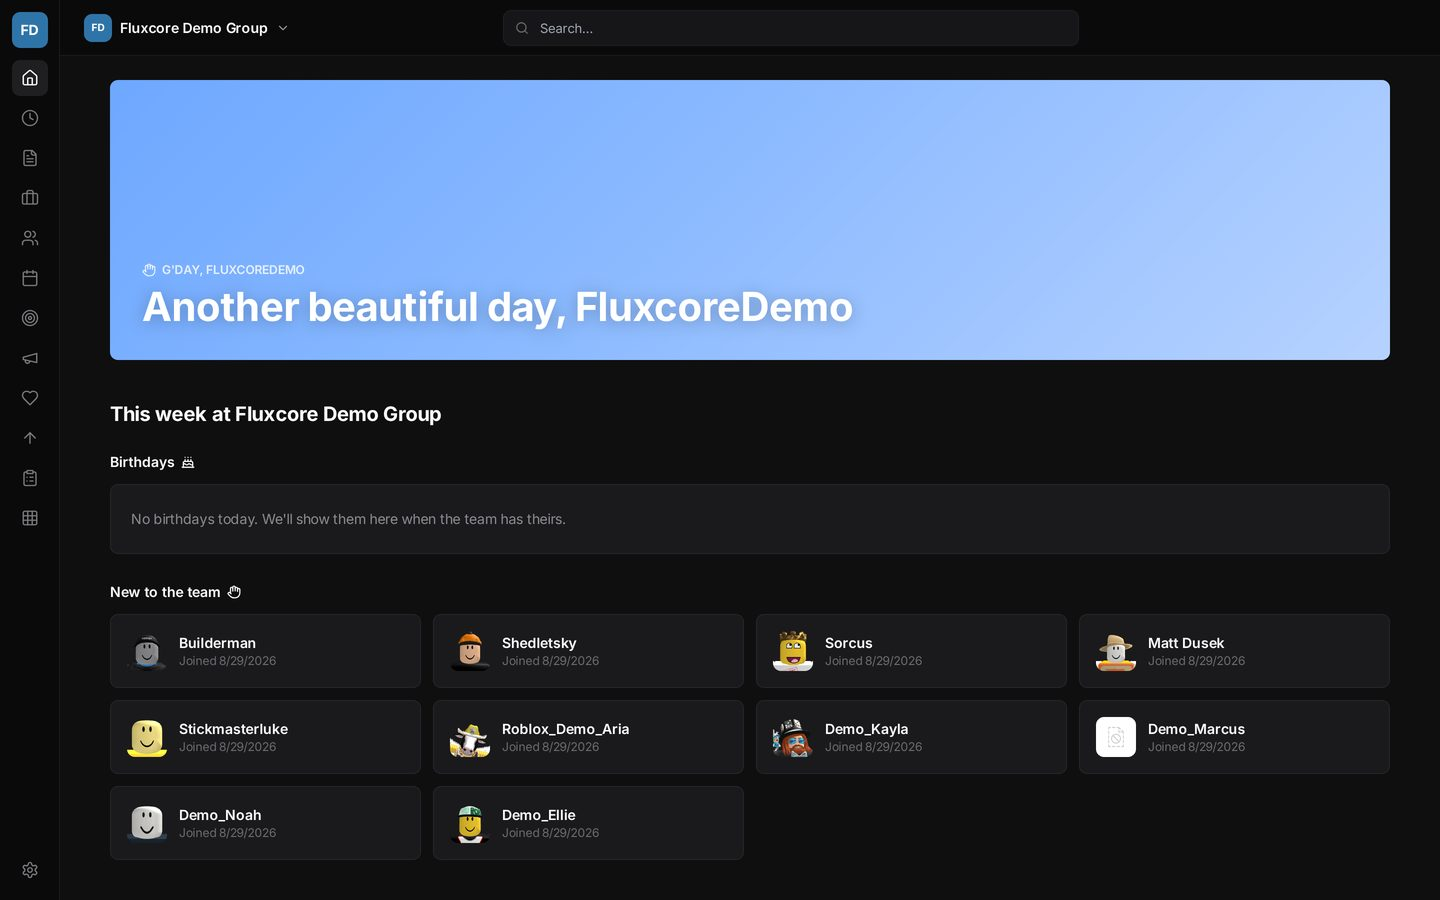
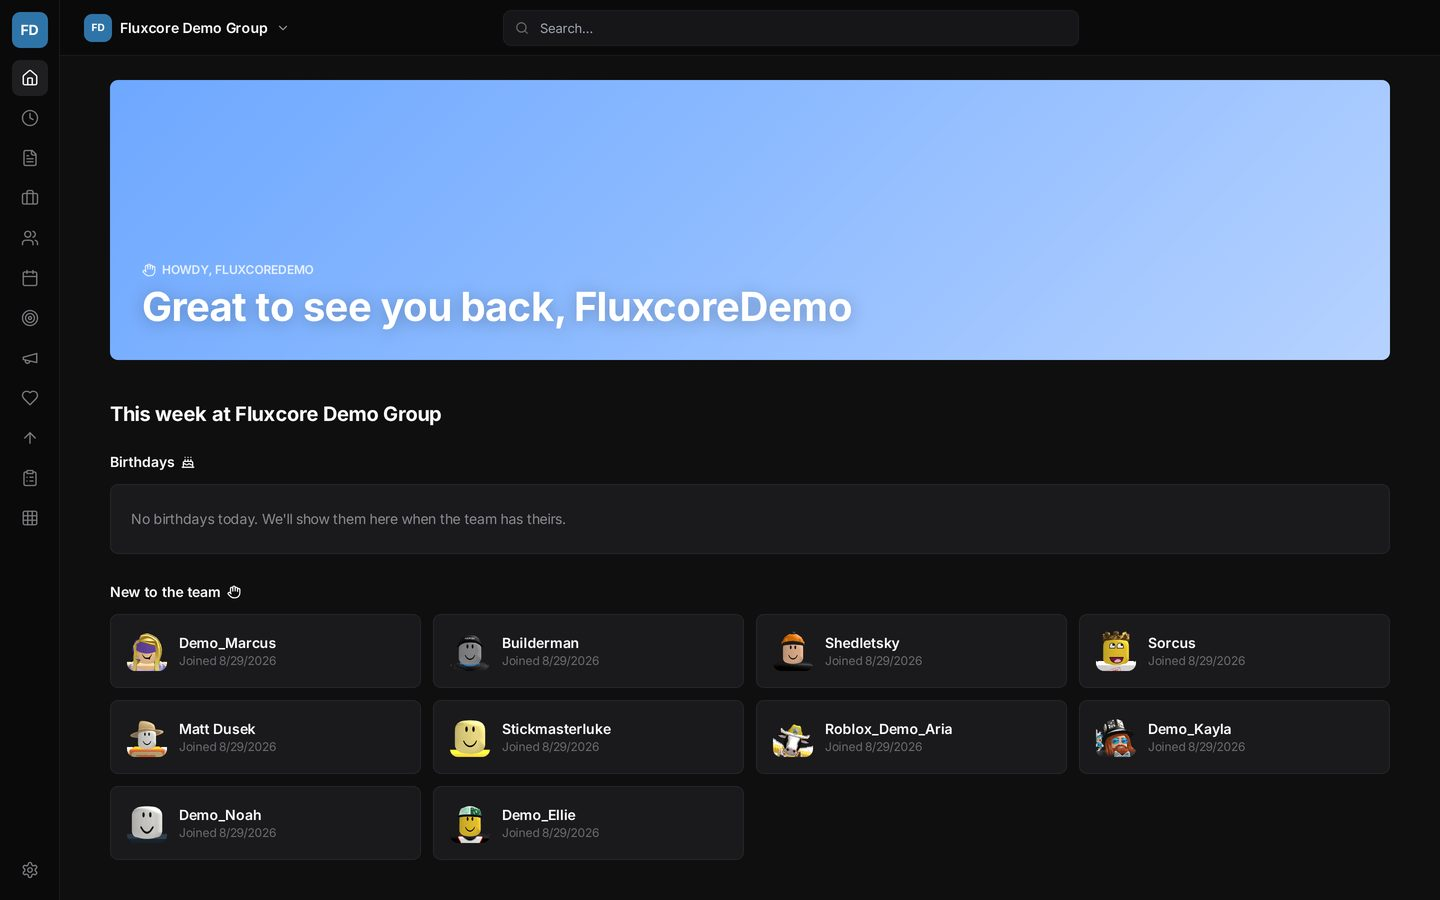
Changes

diff --git a/supabase/functions/demo-session/index.ts b/supabase/functions/demo-session/index.ts
@@ -24,7 +24,7 @@ const FAKE_MEMBERS = [
   { roblox_user_id: "1580480", roblox_username: "Stickmasterluke", role: "Staff", rank: 80 },
   { roblox_user_id: "13365322", roblox_username: "Roblox_Demo_Aria", role: "Staff", rank: 80 },
   { roblox_user_id: "2032622", roblox_username: "Demo_Kayla", role: "Trainee", rank: 40 },
-  { roblox_user_id: "4241021", roblox_username: "Demo_Marcus", role: "Trainee", rank: 40 },
+  { roblox_user_id: "111204911", roblox_username: "Demo_Marcus", role: "Trainee", rank: 40 },
   { roblox_user_id: "9887665", roblox_username: "Demo_Noah", role: "Trainee", rank: 40 },
   { roblox_user_id: "7712233", roblox_username: "Demo_Ellie", role: "Member", rank: 10 },
 ];
